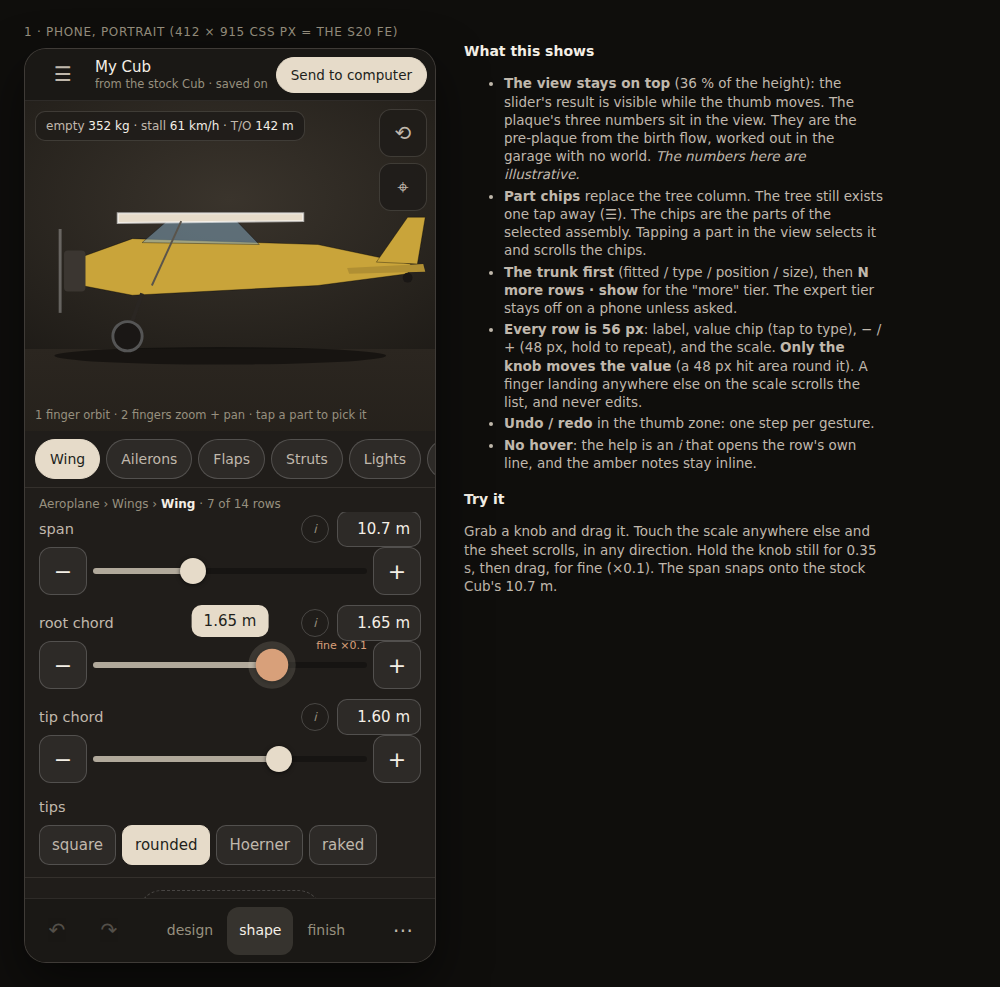
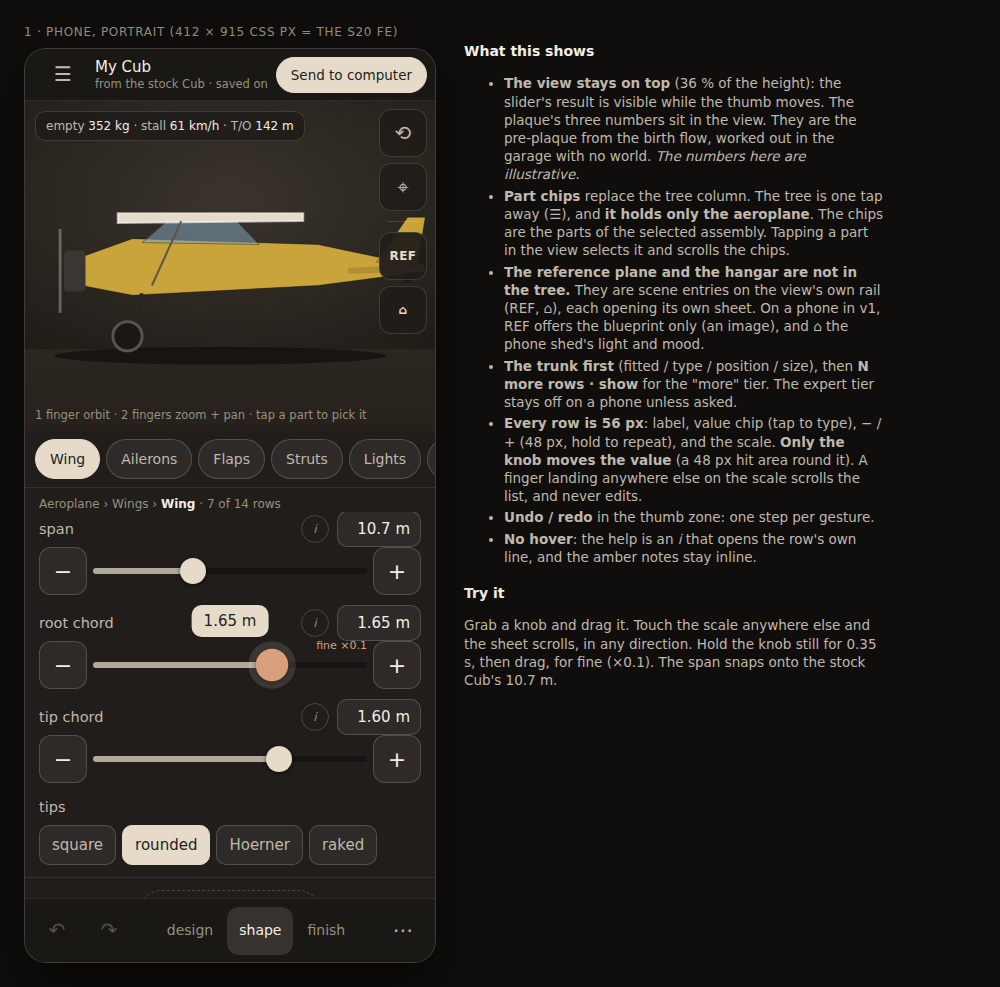
G1512 MOBILE-GARAGE: the user's ruling - the parts tree holds only the aeroplane; the reference plane and the hangar move to the rail (desktop sketch, the phone's view rail, R24, the revamp's ninth decision)
Claude-Session: https://claude.ai/code/session_01RFhARPJcxfxfn13XTb5o4Y
(cherry picked from commit cea693fc11bea1b8bfd1d59826f54c31bfe71bbb)

Changed region(s): [[0.465, 0.1824, 0.899, 0.6991], [0.372, 0.2128, 0.434, 0.304]]

diff --git a/flyDiy/futureDesigns/mobile-garage/desktop.html b/flyDiy/futureDesigns/mobile-garage/desktop.html
@@ -1,0 +1,64 @@
+<!doctype html>
+<html lang="en"><head><meta charset="utf-8"><meta name="viewport" content="width=device-width,initial-scale=1">
+<title>Desktop garage tree and rail</title>
+<link rel="stylesheet" href="mock.css">
+</head><body>
+<div class="stage">
+<div>
+  <p class="cap">8 · desktop: the tree is the aeroplane; the reference plane and the hangar live on the rail</p>
+  <div class="dk">
+    <div class="dtop">flyDiy · garage · <b style="color:var(--ed-ink)">My Cub</b> <span style="flex:1"></span> design · <b style="color:var(--ed-ink)">shape</b> · finish <span style="flex:1"></span> <span class="pill acc" style="display:inline-flex;align-items:center">ROLL OUT &amp; FLY</span></div>
+    <div class="spine"></div>
+    <div class="dv" id="dv">
+      <div class="drail">
+        <button>camera</button><button>display</button><button>night</button><button>explode</button>
+        <div class="rs"></div>
+        <button class="scene on">reference</button><button class="scene">hangar</button>
+        <div class="rs"></div>
+        <button>controls</button><button>graphics</button><button>sound</button>
+      </div>
+      <div class="fly">
+        <h4>Reference plane <span style="color:var(--ed-faint);font-weight:400;font-size:11px">· display only, not part of your build</span></h4>
+        <div class="seg"><span class="on">3D model</span><span>Blueprint</span></div>
+        <div class="fr"><span>model</span><span style="color:var(--ed-ink)">Piper PA-18 ▾</span><span></span></div>
+        <div class="fr"><span>shown</span><span style="color:var(--ed-ink)">ghost ▾</span><span></span></div>
+        <div class="fr"><span>opacity</span><i></i><span>0.40</span></div>
+        <div class="fr"><span>offset aft</span><i></i><span>0.00</span></div>
+        <div class="fr"><span>scale</span><i></i><span>1.00</span></div>
+      </div>
+    </div>
+    <div class="props" id="props"></div>
+    <div class="tree">
+      <div class="th">My Cub<small>your aeroplane: every part</small></div>
+      <div class="ta">Design &amp; construction</div>
+      <div class="ta">Fuselage</div>
+      <div class="ta on">Wings</div><div class="tp">Wing</div><div class="tp">Ailerons</div><div class="tp">Flaps</div><div class="tp">Struts</div>
+      <div class="ta">Tail</div>
+      <div class="ta">Control hardware</div>
+      <div class="ta">Powerplant</div>
+      <div class="ta">Running gear</div>
+      <div class="ta">Build</div>
+      <div class="gone">Reference plane › 3D model, Blueprint</div>
+      <div class="gone">The shed</div>
+    </div>
+  </div>
+</div>
+<div class="notes">
+  <h3>The ruling (the user, 2026-10-04)</h3>
+  <p>The parts tree drops its two non-aeroplane roots: the reference plane and the hangar (the shed). They move to the rail, or to the top.</p>
+  <ul>
+    <li><b>The tree is the aeroplane.</b> Its heading is the build's name, and selecting the heading shows every row, as the "My Plane" root does today. Its rows are the 8 assemblies and their parts. The two crossed-out rows are what leaves.</li>
+    <li><b>The reference plane</b> becomes a rail entry with its own flyout. It keeps G573's two sources, 3D model and Blueprint, as a segmented switch. It is display state and never in the spec, so it belongs with "how you look", which is what the rail is for (G78).</li>
+    <li><b>The hangar</b> becomes a rail entry too. It holds the shed's size, its parts and the mood. The <i>night</i> flyout keeps borrowing its light rows, as today.</li>
+    <li><b>Phone:</b> the same two entries sit on the view's own rail (REF, ⌂ in the portrait mock-up), each opening a bottom sheet.</li>
+    <li><b>The mechanism:</b> <code>CAGE_TREE_ROOTS</code> gains <code>place: 'tree' | 'rail' | 'top'</code>, and each root says where it lives. A stored selection of <code>ref</code> or <code>shed</code> (<code>flydiy.edPart</code>) migrates to <code>craft</code>.</li>
+  </ul>
+</div>
+</div>
+<script src="rowkit.js"></script><script src="mock_rows.js"></script>
+<script>
+document.getElementById('dv').insertAdjacentHTML('afterbegin', MOCK_PLANE(844, 676, 'wing'));
+const P = Object.assign({}, MOCK_P), host = document.getElementById('props'); host.classList.add('desk'); host.style.cssText = 'width:auto;border:0;border-radius:0';
+ROWKIT.render(host, MOCK_ROWS, { mode: 'desk', P, tier: 'more', more: false });
+</script>
+</body></html>

diff --git a/flyDiy/futureDesigns/mobile-garage/mock.css b/flyDiy/futureDesigns/mobile-garage/mock.css
@@ -135,3 +135,30 @@ button{font:inherit;color:inherit}
 .steps .ok{color:var(--ed-ok)} .steps .run{color:var(--ed-warn)} .steps .todo{color:var(--ed-faint)}
 .row2{display:flex;gap:10px;justify-content:flex-end;margin-top:14px}
 .rk-t,.bar,.parts,.top{user-select:none;-webkit-user-select:none}
+
+.vsep{display:block;height:1px;width:32px;margin:4px auto;background:var(--ed-border)}
+.ib.scene{font-size:12px;font-weight:600;letter-spacing:.04em;color:var(--ed-acc)}
+.tab.scene{line-height:1.1;color:var(--ed-acc)} .tab.scene small{font-size:9.5px;color:var(--ed-faint);font-weight:400}
+/* the desktop sketch (desktop.html) */
+.dk{width:1280px;height:720px;display:grid;grid-template-columns:46px 1fr 390px 250px;grid-template-rows:44px 1fr;background:#14120f;border:1px solid var(--ed-border);border-radius:8px;overflow:hidden;font-size:12px}
+.dk .dtop{grid-column:1/-1}
+.dk .spine{background:var(--ed-board);border-right:1px solid var(--ed-hair)}
+.dk .dv{position:relative;background:radial-gradient(120% 90% at 50% 30%,#3a342c 0%,#1d1a16 70%)}
+.dk .drail{position:absolute;left:10px;top:10px;display:flex;flex-direction:column;gap:4px;background:var(--ed-plate);border:1px solid var(--ed-border);border-radius:10px;padding:5px}
+.dk .drail button{width:64px;height:40px;border:0;border-radius:7px;background:transparent;color:var(--ed-dim);font-size:10.5px}
+.dk .drail button.on{background:var(--ed-acc-soft);color:var(--ed-ink)}
+.dk .drail button.scene{color:var(--ed-acc)}
+.dk .drail .rs{height:1px;background:var(--ed-border);margin:3px 4px}
+.dk .fly{position:absolute;left:90px;top:10px;width:300px;background:var(--ed-plate);border:1px solid var(--ed-border);border-radius:10px;padding:10px 12px;color:var(--ed-dim)}
+.dk .fly h4{margin:0 0 6px;color:var(--ed-ink);font-weight:500;font-size:13px}
+.dk .fly .seg{display:flex;gap:4px;margin:6px 0 8px}.dk .fly .seg span{padding:4px 10px;border-radius:12px;border:1px solid var(--ed-btn-bd)}.dk .fly .seg span.on{background:var(--ed-acc);color:var(--ed-acc-ink)}
+.dk .fly .fr{display:grid;grid-template-columns:110px 1fr 46px;gap:10px;align-items:center;height:26px}
+.dk .fly .fr i{height:3px;background:var(--ed-track);border-radius:2px;position:relative}.dk .fly .fr i::after{content:'';position:absolute;left:40%;top:-4px;width:11px;height:11px;border-radius:6px;background:var(--ed-acc)}
+.dk .props{background:var(--ed-panel);border-left:1px solid var(--ed-hair);overflow:hidden}
+.dk .tree{background:var(--ed-board);border-left:1px solid var(--ed-hair);padding:8px 0}
+.dk .tree .th{padding:4px 12px 8px;color:var(--ed-ink);font:500 13.5px/1.35 'IBM Plex Sans';border-bottom:1px solid var(--ed-hair);margin-bottom:4px}
+.dk .tree .th small{display:block;color:var(--ed-faint);font-weight:400;font-size:11px}
+.dk .tree .ta{padding:5px 12px;color:var(--ed-ink);font-weight:500}
+.dk .tree .tp{padding:3px 12px 3px 26px;color:var(--ed-dim)}
+.dk .tree .ta.on{background:var(--ed-acc-soft)}
+.dk .gone{margin:10px 12px;padding:8px;border:1px dashed var(--ed-btn-bd);border-radius:6px;color:var(--ed-faint);font-size:11px;text-decoration:line-through}

diff --git a/flyDiy/futureDesigns/mobile-garage/portrait.html b/flyDiy/futureDesigns/mobile-garage/portrait.html
@@ -14,7 +14,7 @@
     </div>
     <div class="view" style="height:330px" id="view">
       <div class="readout">empty <b>352 kg</b> · stall <b>61 km/h</b> · T/O <b>142 m</b></div>
-      <div class="vt"><button class="ib" aria-label="front">⟲</button><button class="ib" aria-label="frame">⌖</button></div>
+      <div class="vt"><button class="ib" aria-label="front">⟲</button><button class="ib" aria-label="frame">⌖</button><span class="vsep"></span><button class="ib scene" aria-label="reference plane" title="">REF</button><button class="ib scene" aria-label="hangar">⌂</button></div>
       <div class="hint">1 finger orbit · 2 fingers zoom + pan · tap a part to pick it</div>
     </div>
     <div class="parts" id="parts"></div>
@@ -32,7 +32,8 @@
   <h3>What this shows</h3>
   <ul>
     <li><b>The view stays on top</b> (36 % of the height): the slider's result is visible while the thumb moves. The plaque's three numbers sit in the view. They are the pre-plaque from the birth flow, worked out in the garage with no world. <i>The numbers here are illustrative.</i></li>
-    <li><b>Part chips</b> replace the tree column. The tree still exists one tap away (☰). The chips are the parts of the selected assembly. Tapping a part in the view selects it and scrolls the chips.</li>
+    <li><b>Part chips</b> replace the tree column. The tree is one tap away (☰), and <b>it holds only the aeroplane</b>. The chips are the parts of the selected assembly. Tapping a part in the view selects it and scrolls the chips.</li>
+    <li><b>The reference plane and the hangar are not in the tree.</b> They are scene entries on the view's own rail (REF, ⌂), each opening its own sheet. On a phone in v1, REF offers the blueprint only (an image), and ⌂ the phone shed's light and mood.</li>
     <li><b>The trunk first</b> (fitted / type / position / size), then <b>N more rows · show</b> for the "more" tier. The expert tier stays off on a phone unless asked.</li>
     <li><b>Every row is 56 px</b>: label, value chip (tap to type), − / + (48 px, hold to repeat), and the scale. <b>Only the knob moves the value</b> (a 48 px hit area round it). A finger landing anywhere else on the scale scrolls the list, and never edits.</li>
     <li><b>Undo / redo</b> in the thumb zone: one step per gesture.</li>

diff --git a/flyDiy/futureDesigns/mobile-garage/landscape.html b/flyDiy/futureDesigns/mobile-garage/landscape.html
@@ -18,6 +18,8 @@
     <div class="rail">
       <button class="ib" aria-label="menu">☰</button>
       <button class="tab">design</button><button class="tab on">shape</button><button class="tab">finish</button>
+      <span class="vsep"></span>
+      <button class="tab scene">REF<br><small>reference</small></button><button class="tab scene">⌂<br><small>hangar</small></button>
       <div style="flex:1"></div>
       <button class="ib" id="undo" aria-label="undo" disabled>↶</button>
       <button class="ib" id="redo" aria-label="redo" disabled>↷</button>
@@ -40,7 +42,7 @@
   <h3>Landscape</h3>
   <ul>
     <li><b>View on the left, rows on the right</b> (380 px, the desktop's 390 px column). In landscape the panel mirrors the desktop layout.</li>
-    <li><b>The tabs and undo move to a left rail</b>, so the thumb reaches them while the phone is held in two hands.</li>
+    <li><b>The tabs and undo move to a left rail</b>, so the thumb reaches them while the phone is held in two hands. The rail also carries <b>the reference plane and the hangar</b>, which are no longer in the parts tree.</li>
     <li><b>The same rows, the same renderer</b> as portrait. Only the container changes. A <code>@media (orientation)</code> rule picks the layout, and nothing in the row knows which one it is in.</li>
     <li>The 3D view gets 471 × 412 px here. In portrait it gets 412 × 330 px.</li>
   </ul>

diff --git a/flyDiy/futureDesigns/mobile-garage/index.html b/flyDiy/futureDesigns/mobile-garage/index.html
@@ -8,6 +8,7 @@
 <li><a style="color:var(--ed-acc)" href="portrait.html">1 · phone, portrait</a>: view on top, part chips, the trunk rows, undo in the thumb zone</li>
 <li><a style="color:var(--ed-acc)" href="landscape.html">2 · phone, landscape</a>: view left, rows right, a rail for the tabs</li>
 <li><a style="color:var(--ed-acc)" href="handoff.html">3-6 · phone to computer</a>: the share sheet, the QR, the bench in place of the flight, the computer's arrival card</li>
+<li><a style="color:var(--ed-acc)" href="desktop.html">8 · desktop: the tree is the aeroplane</a>: the reference plane and the hangar on the rail (R24)</li>
 <li><a style="color:var(--ed-acc)" href="rowmodel.html">7 · one row model, two renderers</a>: desktop and phone from the same descriptors (live, with their tick / release events)</li>
 </ul>
 <p style="color:var(--ed-faint);font-size:13px"><code>rowkit.js</code> is the prototype renderer, <code>mock_rows.js</code> the wing's real rows in the proposed descriptor.</p>

diff --git a/flyDiy/futureDesigns/MOBILE-GARAGE-2026-10-04.md b/flyDiy/futureDesigns/MOBILE-GARAGE-2026-10-04.md
@@ -26,7 +26,8 @@ over a recording GL, real ms, ~1.6x the box's JS). **SwiftShader** = headless Ch
 3. **One row model, two renderers.** Today's row tuple gains six optional fields (`unit`, `group`, `tier`, `fine`,
    `detents`, `help`). A desktop renderer and a touch renderer read it, and both emit the same `tick` / `release`
    events GARAGE-INSTANT already keys on. On touch **only the knob moves a value**; a finger anywhere else on a
-   slider scrolls the list (R4, the user's ruling). **The slider revamp must decide this now** (§2.9). The rest of the phone
+   slider scrolls the list (R4, the user's ruling). The parts tree holds only the aeroplane; the reference plane and
+   the hangar move to the rail (R24, the user's ruling). **The slider revamp must decide this now** (§2.9). The rest of the phone
    UI can come later without a rewrite.
 4. **Phone → computer by link**: `#build=<base64url(deflate-raw(JSON))>` in the URL fragment, so GitHub Pages stays
    static and no server sees the build. The payload is a **patch over a frozen stock base** (20 changed rows = 401
@@ -277,6 +278,29 @@ What the editor is today (the digest of `tools/_cage_ui.js` / `src/viewer/editor
 - **R21. No edit by dragging in the 3D view in v1** (no handle-dragging on the model). It is tempting, but on a small
   screen it fights the orbit. The pin (R17) shows *where*; the knob changes *how much*.
 
+### 2.8b The tree is the aeroplane: the reference plane and the hangar leave it
+- **R24 (the user's ruling, 2026-10-04): the parts tree drops its two non-aeroplane roots.** *"Take out the
+  reference plane and hangar entries from the parts tree to simplify, and have those in the rails, or at the top."*
+  - Today the tree's top level is a registry of peers (`CAGE_TREE_ROOTS`, `editor.js:173-330`): `craft` ("My Plane",
+    the 8 assemblies), `ref` ("Reference plane", with G573's two rows, 3D model and Blueprint) and `shed`
+    ("The shed", the hangar group's rows).
+  - **The tree.** It holds only the aeroplane: its heading is the build's name, and selecting the heading shows every
+    row, as the craft root does now. Its rows are the 8 assemblies (Design & construction, Fuselage, Wings, Tail,
+    Control hardware, Powerplant, Running gear, Build) and their parts.
+  - **Desktop.** The reference plane and the hangar become **entries on the view's icon rail** (the G78 rail:
+    camera, display, night, explode, ...), each with its own flyout. They are display and room state, never in the
+    spec, and the rail is where "how you look" lives. The reference flyout keeps 3D model / Blueprint as a segmented
+    switch. The hangar flyout carries the shed's size, parts and mood, and the *night* flyout keeps borrowing the
+    light rows. (The ribbon at the top is the alternative the user allowed; the rail keeps the ribbon for the build's
+    verbs.)
+  - **Phone.** The same two entries sit on the 3D view's own rail (REF, ⌂: `mock_1_portrait.png`; the left rail in
+    landscape: `mock_2_landscape.png`), each opening a bottom sheet. In v1 a phone's REF offers the blueprint image
+    only (the 3D reference models are large payloads), and ⌂ the phone shed's light and mood.
+  - **The mechanism.** The registry gains `place: 'tree' | 'rail' | 'top'`; `ref` and `shed` declare `'rail'`, and
+    the rail renders a root's `panel()` as its flyout. A stored selection of `ref`, `ref.model`, `ref.bp` or `shed`
+    (`flydiy.edPart`) migrates to `craft`. GATE VIEW's label finds keep working (the rows are the same elements,
+    moved). Sketch: `mock_5_desktop_tree_rail.png` (`desktop.html`).
+
 ### 2.9 Undo, and the row model built once
 - **R22. Undo / redo, one entry per gesture.** A drag's ticks fold into its press; a held stepper run is one entry; a
   typed value is one entry. Entries are `{key, from, to}` on the spec's P. They are tiny: 1,000 entries would be
@@ -317,6 +341,8 @@ What the editor is today (the digest of `tools/_cage_ui.js` / `src/viewer/editor
      its own element (not a styled native range on a phone) and the scale stays scrollable.
   8. **Sizes come from CSS tokens** (`--row`, `--tap`, `--lab`), switched by `(pointer: coarse)`. No pixel
      constants in JS. (`layoutRight()`'s 390 / 250 / 46 are the ones to move.)
+  9. **The tree holds only the aeroplane** (R24): the reference plane and the hangar are rail entries
+     (`CAGE_TREE_ROOTS` `place`), on the desktop and the phone alike.
 
   The layout chrome (chips vs tree, sheet vs column, rail vs ribbon) can come in M4 without touching a row.
 
@@ -437,7 +463,7 @@ numbers.
 
 | session | scope | G-block | gates | where |
 |---|---|---|---|---|
-| **M3 ROW-MODEL** (inside the slider revamp; **first**) | the descriptor fields (§2.9 table); `mkRow` → descriptor + `deskRow` (pixel-identical to today); `tier` / `help` written during the per-slider review; the undo history at `GARAGE_SPEC.update` (one entry per gesture, ⌘Z / Ctrl+Z, ribbon arrows); steppers and typing on the tick path | G1520-G1529 | GATE PARTS (every row claimed), GATE INSTANT (unchanged), **new GATE ROWS** (every row has tier / group; ≤ 8 basic per part; no `title=` without `help`), **new GATE UNDO** (undo × N returns the boot hash) | cloud (node) + box (the look) |
+| **M3 ROW-MODEL** (inside the slider revamp; **first**) | the descriptor fields (§2.9 table); the tree holds only the aeroplane, with the reference plane and the hangar on the rail (R24); `mkRow` → descriptor + `deskRow` (pixel-identical to today); `tier` / `help` written during the per-slider review; the undo history at `GARAGE_SPEC.update` (one entry per gesture, ⌘Z / Ctrl+Z, ribbon arrows); steppers and typing on the tick path | G1520-G1529 | GATE PARTS (every row claimed), GATE INSTANT (unchanged), **new GATE ROWS** (every row has tier / group; ≤ 8 basic per part; no `title=` without `help`; the tree's roots are `craft` alone), **new GATE UNDO** (undo × N returns the boot hash) | cloud (node) + box (the look) |
 | **M1 GARAGE-MODE** | `?mode=garage`: the boot's world rows off (§1.2 table), no ISLAND_LOADER fetch, no sim worker; on a desktop the roll-out builds the world lazily (the LOADING-S3 path, kept beside B9's one loading); the mode is **not** shown on a desktop unless asked | G1530-G1534 | GATE ROUNDTRIP (both modes), GATE INSTANT, **new GATE GARAGEONLY** (node: no world step ran, 0 island bytes, heap ≤ the measured floor + 10 %), FRAMECOST (garage profile unchanged) | cloud (node), then box: heap_steps + the phone rig |
 | **M5 SHARE** | `#build=` links (patch over frozen bases + whole spec), `media/bases/` content-addressed, the arrival card, Send (Web Share, copy, QR when it fits), new-slot import, hash cleared | G1535-G1539 | **new GATE SHARE** (node: export → link → import byte-identical spec on the 5 validated builds, patch and whole; a corrupted / oversized / future-version link refused or warned; a 60-row patch ≤ 1.3 KB); GATE BUILD, GATE SAVE | cloud |
 | **M2 PHONE-SHED** | the phone rung of the garage (§1.5: props off, glass off, crew meshes hidden, shadows off, pixel ratio ≤ 1.5, readouts on demand); the welcome's phone gate offers "Build on this phone (garage only)" | G1540-G1544 | GATE GFX (no desktop preset changes), FRAMECOST's garage profile **on the phone rung** (draws ≤ 300, triangles ≤ 0.6 M), GATE SOFTGPU | cloud + **phone** (heap ≤ 700 MB, no kill, drag drawn ≤ 150 ms p50) |
@@ -464,7 +490,7 @@ numbers.
 - **Touch precision.** 2.3 px per step coarse on a 412 px screen (§2.3). Fine mode, steppers and typing are the answer,
   and the user's thumb is the test (M4).
 - **The revamp's timing.** If the revamp ships rows as hand-built DOM with hover-only help and no `tier`, mobile becomes
-  a second editor. The eight decisions in §2.9 cost the revamp little now and save the rewrite.
+  a second editor. The nine decisions in §2.9 cost the revamp little now and save the rewrite.
 - **Two boots.** B9 made one loading on purpose (no world builds under the player's nose). A garage mode brings back
   "the first roll-out builds the world" on any computer that opens it. Keep the mode out of the desktop's default path
   (only a phone, or `?mode=garage`), and the link's arrival on a computer boots the **full** game.
@@ -476,7 +502,7 @@ numbers.
 ## 6. FILES OF THIS STUDY
 
 - `futureDesigns/mobile-garage/`:
-  - mock-ups: `index.html`, `portrait.html`, `landscape.html`, `handoff.html`, `rowmodel.html`
+  - mock-ups: `index.html`, `portrait.html`, `landscape.html`, `handoff.html`, `rowmodel.html`, `desktop.html` (the tree and the rail, R24)
   - the prototype renderer: `rowkit.js`
   - the wing's real rows in the proposed descriptor: `mock_rows.js`
   - `mock.css` and a real QR: `qr_patch20.svg`
